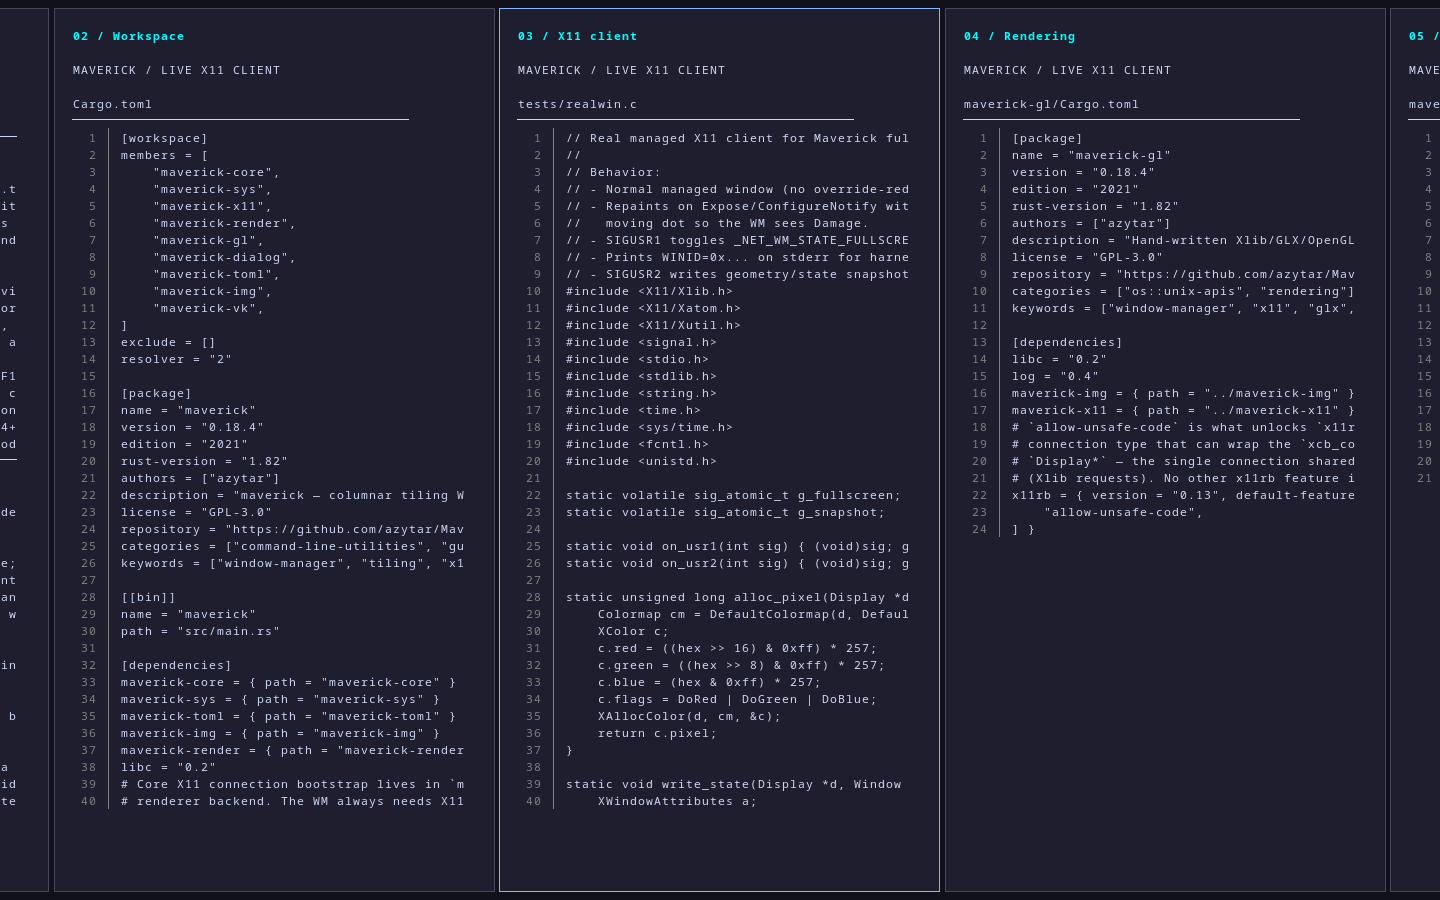
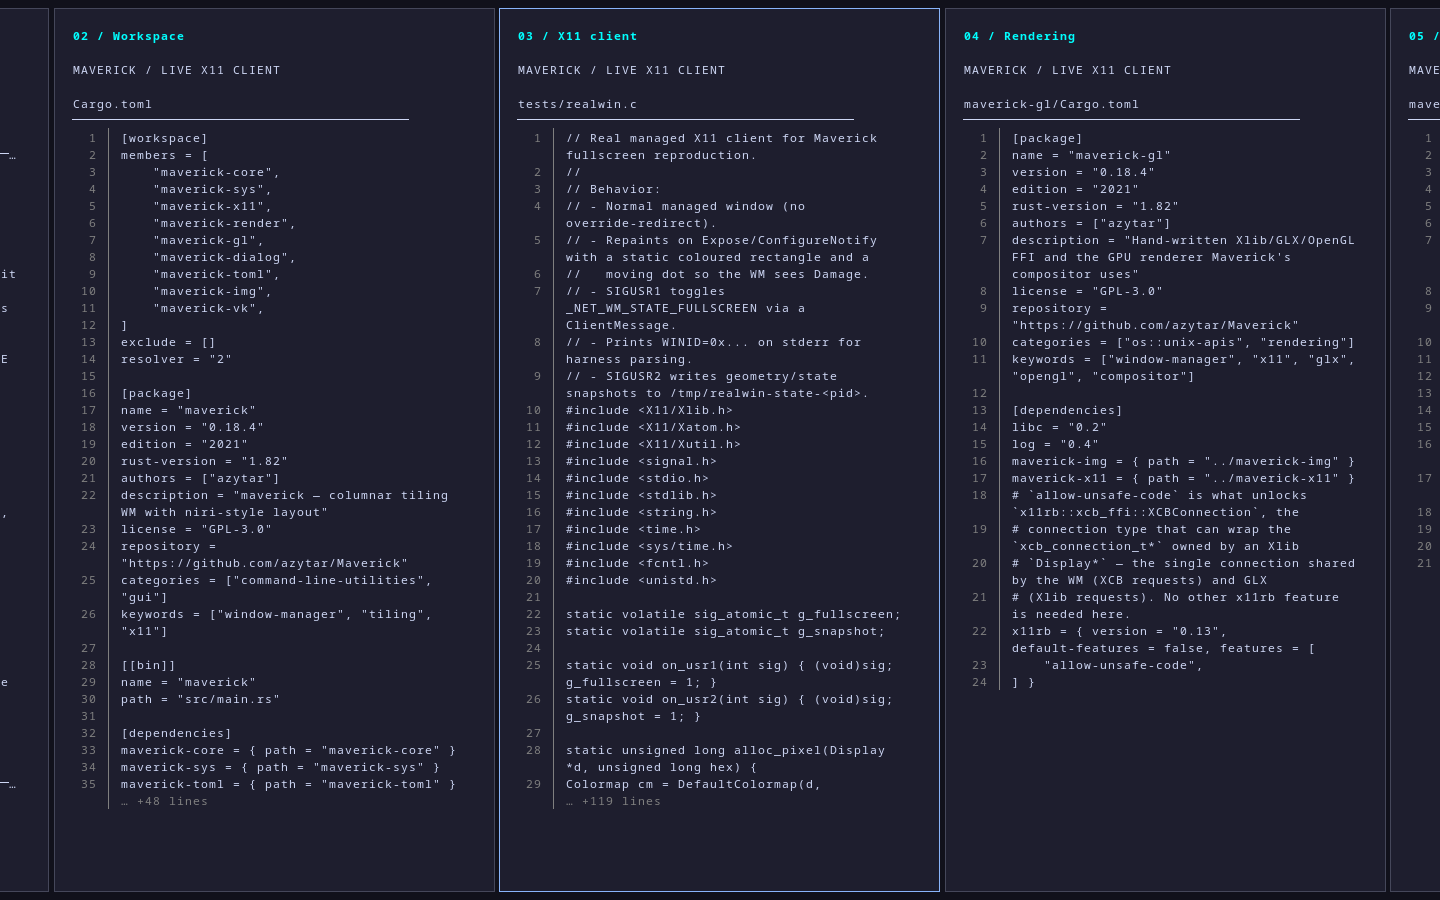
fix(showcase): stop truncating demo content mid-word
Tiled xterms are 50 cols wide, so line[:columns-7] cut ~25/40
lines mid-word (e.g. 'config.t'). Fold word-aware with an honest
'… +N lines' footer instead; regenerate all 15 captures.

diff --git a/scripts/showcase/showcase.py b/scripts/showcase/showcase.py
@@ -31,15 +31,67 @@ FOCUSED, NORMAL = (137, 180, 250), (69, 71, 90)
 CONTENT = (30, 30, 46)
 
 
+def fold_line(line, width):
+    """Fold one source line to fit `width` cells without mid-word cuts.
+
+    Word-aware wrap; only an overlong whitespace-free token is hard-folded
+    with a trailing ellipsis marker. Returns the list of continuation rows.
+    """
+    if len(line) <= width:
+        return [line]
+    rows, current = [], ""
+    for word in line.split(" "):
+        if not current:
+            if len(word) <= width:
+                current = word
+            else:
+                while len(word) > width - 1:
+                    rows.append(word[:width - 1] + "…")
+                    word = word[width - 1:]
+                current = word
+        elif len(current) + 1 + len(word) <= width:
+            current += " " + word
+        else:
+            rows.append(current)
+            if len(word) <= width:
+                current = word
+            else:
+                while len(word) > width - 1:
+                    rows.append(word[:width - 1] + "…")
+                    word = word[width - 1:]
+                current = word
+    rows.append(current)
+    return rows
+
+
 def client(title, source):
     lines = (ROOT / source).read_text().splitlines()
     def draw(*_):
         columns, rows = shutil.get_terminal_size()
+        width = max(10, columns - 7)
+        budget = max(1, rows - 9)
         print("\033[2J\033[H\033[?25l\033[1;36m" + title + "\033[0m\n")
         print("MAVERICK / LIVE X11 CLIENT\n")
         print(source + "\n" + "─" * min(42, columns - 1))
-        for index, line in enumerate(lines[:max(1, rows - 9)], 1):
-            print(f"\033[90m{index:3} │\033[0m {line[:max(1, columns - 7)]}")
+        folded = []
+        for index, line in enumerate(lines, 1):
+            for position, part in enumerate(fold_line(line, width)):
+                folded.append((index, position > 0, part))
+                if len(folded) >= budget:
+                    break
+            if len(folded) >= budget:
+                break
+        shown = {index for index, _, _ in folded}
+        if len(shown) < len(lines):
+            folded = folded[:max(0, budget - 1)]
+            shown = {index for index, _, _ in folded}
+        for index, continuation, part in folded:
+            if continuation:
+                print(f"\033[90m    │\033[0m {part}")
+            else:
+                print(f"\033[90m{index:3} │\033[0m {part}")
+        if len(shown) < len(lines):
+            print(f"\033[90m    │ … +{len(lines) - len(shown)} lines\033[0m")
         sys.stdout.flush()
     signal.signal(signal.SIGWINCH, draw)
     draw()
